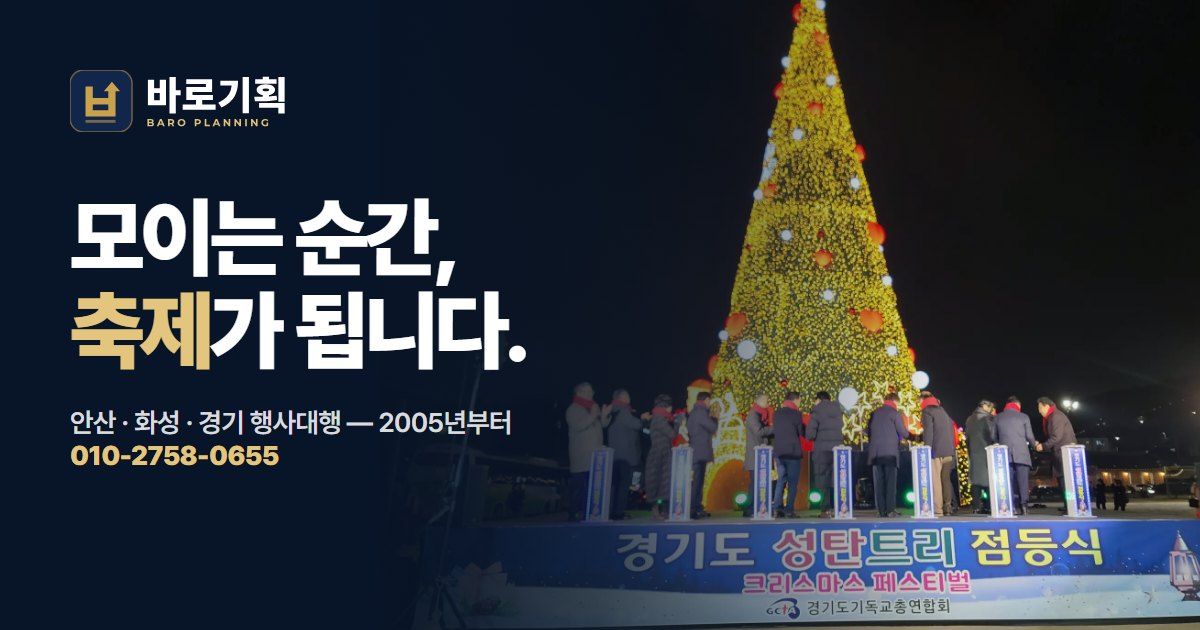
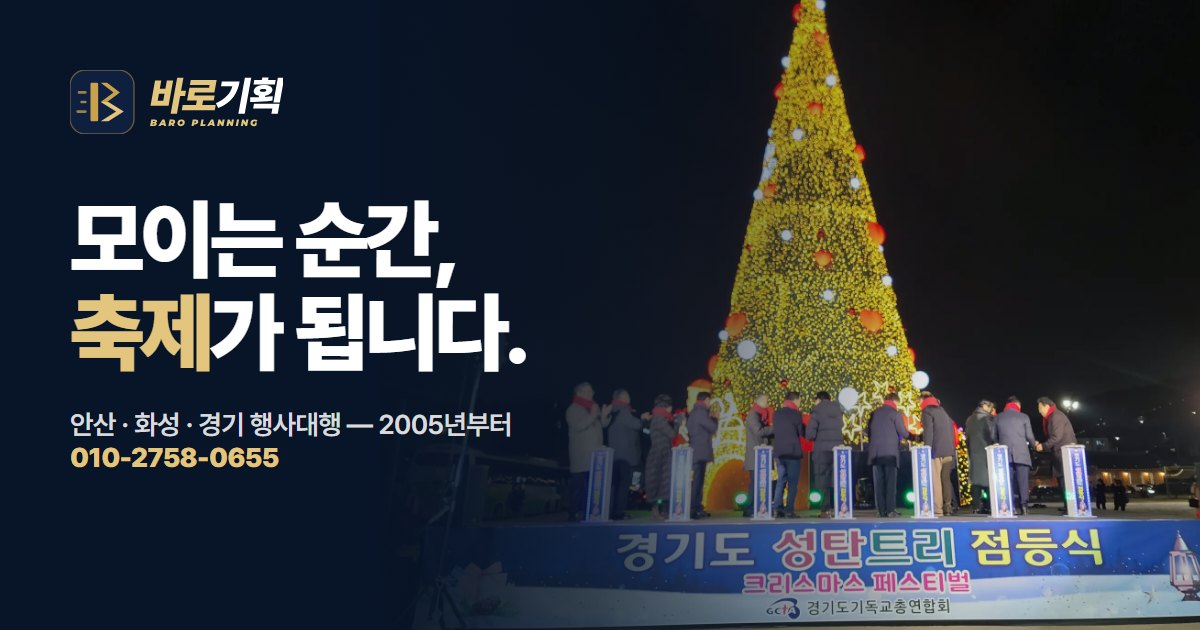
바로기획 로고 교체 — C안 「빨리감기 B」(아웃라인 SVG), OG 그림 새 로고로

diff --git a/about.html b/about.html
@@ -33,14 +33,14 @@
 <div class="draft" aria-hidden="true">큰길브리지 제작 시안 · 대표님 확인 후 확정</div>
 <header class="hd" id="hd">
   <div class="wrap">
-    <a class="logo" href="index.html" aria-label="바로기획 홈"><img class="c" src="assets/img/logo-h.svg" alt="바로기획 BARO PLANNING" width="229" height="64"><img class="w" src="assets/img/logo-h-white.svg" alt="바로기획 BARO PLANNING" width="229" height="64"></a>
+    <a class="logo" href="index.html" aria-label="바로기획 홈"><img class="c" src="assets/img/logo-h.svg" alt="바로기획 BARO PLANNING" width="213" height="64"><img class="w" src="assets/img/logo-h-white.svg" alt="바로기획 BARO PLANNING" width="213" height="64"></a>
     <nav aria-label="주 메뉴"><a href="about.html">회사소개</a><a href="service.html">하는 일</a><a href="portfolio.html">현장사진 · 영상</a><a href="notice.html">공지 · 블로그</a><a href="contact.html">견적문의</a></nav>
     <a class="tel" href="tel:010-2758-0655"><i><svg viewBox="0 0 24 24" fill="none" stroke="currentColor" stroke-width="1.9"><path d="M5 4h4l2 5-2.5 1.5a11 11 0 0 0 5 5L15 13l5 2v4a2 2 0 0 1-2 2A16 16 0 0 1 3 6a2 2 0 0 1 2-2z"/></svg></i><span>010-2758-0655</span></a>
     <button class="burger" id="burger" aria-label="메뉴 열기" aria-expanded="false" aria-controls="sheet"><i></i></button>
   </div>
 </header>
 <div class="sheet" id="sheet" aria-label="모바일 메뉴">
-  <div class="top"><img src="assets/img/logo-h-white.svg" alt="바로기획" width="143" height="40"><button class="x" aria-label="메뉴 닫기"><svg viewBox="0 0 24 24" fill="none" stroke="currentColor" stroke-width="2"><path d="M6 6l12 12M18 6L6 18"/></svg></button></div>
+  <div class="top"><img src="assets/img/logo-h-white.svg" alt="바로기획" width="133" height="40"><button class="x" aria-label="메뉴 닫기"><svg viewBox="0 0 24 24" fill="none" stroke="currentColor" stroke-width="2"><path d="M6 6l12 12M18 6L6 18"/></svg></button></div>
   <nav><a href="index.html">홈<small>HOME</small></a><a href="about.html">회사소개<small>ABOUT</small></a><a href="service.html">하는 일<small>SERVICE</small></a><a href="portfolio.html">현장사진 · 영상<small>WORKS</small></a><a href="notice.html">공지 · 블로그<small>NEWS</small></a><a href="contact.html">견적문의<small>CONTACT</small></a></nav>
   <div class="foot">대표 김선호 · 010-2758-0655<br>상담 오전 8시 ~ 저녁 8시<br>경기도 안산시 상록구 장화1길 56, 103호<a class="btn btn-gold" href="tel:010-2758-0655"><svg viewBox="0 0 24 24" fill="none" stroke="currentColor" stroke-width="1.9"><path d="M5 4h4l2 5-2.5 1.5a11 11 0 0 0 5 5L15 13l5 2v4a2 2 0 0 1-2 2A16 16 0 0 1 3 6a2 2 0 0 1 2-2z"/></svg>전화로 바로 상담</a></div>
 </div>
@@ -190,7 +190,7 @@
   <div class="wrap">
     <div class="top">
       <div>
-        <a class="logo" href="index.html" aria-label="바로기획 홈"><img src="assets/img/logo-h-white.svg" alt="바로기획 BARO PLANNING" width="165" height="46"></a>
+        <a class="logo" href="index.html" aria-label="바로기획 홈"><img src="assets/img/logo-h-white.svg" alt="바로기획 BARO PLANNING" width="153" height="46"></a>
         <p>2005년부터 안산 · 화성 등 경기 지역에서 체육대회 · 지역축제 · 커팅식 · 송년회를 준비해 온 행사대행 전문업체입니다. 작은 행사도 정성껏 하겠습니다.</p>
         <div class="sns">
           <a href="https://blog.naver.com/mot2256789" target="_blank" rel="noopener" aria-label="네이버 블로그"><svg viewBox="0 0 24 24" fill="none" stroke="currentColor" stroke-width="1.8"><path d="M4 4h16v12H9l-5 4z"/><path d="M8 9h8M8 12h5"/></svg></a>

diff --git a/contact.html b/contact.html
@@ -34,14 +34,14 @@
 <div class="draft" aria-hidden="true">큰길브리지 제작 시안 · 대표님 확인 후 확정</div>
 <header class="hd" id="hd">
   <div class="wrap">
-    <a class="logo" href="index.html" aria-label="바로기획 홈"><img class="c" src="assets/img/logo-h.svg" alt="바로기획 BARO PLANNING" width="229" height="64"><img class="w" src="assets/img/logo-h-white.svg" alt="바로기획 BARO PLANNING" width="229" height="64"></a>
+    <a class="logo" href="index.html" aria-label="바로기획 홈"><img class="c" src="assets/img/logo-h.svg" alt="바로기획 BARO PLANNING" width="213" height="64"><img class="w" src="assets/img/logo-h-white.svg" alt="바로기획 BARO PLANNING" width="213" height="64"></a>
     <nav aria-label="주 메뉴"><a href="about.html">회사소개</a><a href="service.html">하는 일</a><a href="portfolio.html">현장사진 · 영상</a><a href="notice.html">공지 · 블로그</a><a href="contact.html">견적문의</a></nav>
     <a class="tel" href="tel:010-2758-0655"><i><svg viewBox="0 0 24 24" fill="none" stroke="currentColor" stroke-width="1.9"><path d="M5 4h4l2 5-2.5 1.5a11 11 0 0 0 5 5L15 13l5 2v4a2 2 0 0 1-2 2A16 16 0 0 1 3 6a2 2 0 0 1 2-2z"/></svg></i><span>010-2758-0655</span></a>
     <button class="burger" id="burger" aria-label="메뉴 열기" aria-expanded="false" aria-controls="sheet"><i></i></button>
   </div>
 </header>
 <div class="sheet" id="sheet" aria-label="모바일 메뉴">
-  <div class="top"><img src="assets/img/logo-h-white.svg" alt="바로기획" width="143" height="40"><button class="x" aria-label="메뉴 닫기"><svg viewBox="0 0 24 24" fill="none" stroke="currentColor" stroke-width="2"><path d="M6 6l12 12M18 6L6 18"/></svg></button></div>
+  <div class="top"><img src="assets/img/logo-h-white.svg" alt="바로기획" width="133" height="40"><button class="x" aria-label="메뉴 닫기"><svg viewBox="0 0 24 24" fill="none" stroke="currentColor" stroke-width="2"><path d="M6 6l12 12M18 6L6 18"/></svg></button></div>
   <nav><a href="index.html">홈<small>HOME</small></a><a href="about.html">회사소개<small>ABOUT</small></a><a href="service.html">하는 일<small>SERVICE</small></a><a href="portfolio.html">현장사진 · 영상<small>WORKS</small></a><a href="notice.html">공지 · 블로그<small>NEWS</small></a><a href="contact.html">견적문의<small>CONTACT</small></a></nav>
   <div class="foot">대표 김선호 · 010-2758-0655<br>상담 오전 8시 ~ 저녁 8시<br>경기도 안산시 상록구 장화1길 56, 103호<a class="btn btn-gold" href="tel:010-2758-0655"><svg viewBox="0 0 24 24" fill="none" stroke="currentColor" stroke-width="1.9"><path d="M5 4h4l2 5-2.5 1.5a11 11 0 0 0 5 5L15 13l5 2v4a2 2 0 0 1-2 2A16 16 0 0 1 3 6a2 2 0 0 1 2-2z"/></svg>전화로 바로 상담</a></div>
 </div>
@@ -102,7 +102,7 @@
   <div class="wrap">
     <div class="top">
       <div>
-        <a class="logo" href="index.html" aria-label="바로기획 홈"><img src="assets/img/logo-h-white.svg" alt="바로기획 BARO PLANNING" width="165" height="46"></a>
+        <a class="logo" href="index.html" aria-label="바로기획 홈"><img src="assets/img/logo-h-white.svg" alt="바로기획 BARO PLANNING" width="153" height="46"></a>
         <p>2005년부터 안산 · 화성 등 경기 지역에서 체육대회 · 지역축제 · 커팅식 · 송년회를 준비해 온 행사대행 전문업체입니다. 작은 행사도 정성껏 하겠습니다.</p>
         <div class="sns">
           <a href="https://blog.naver.com/mot2256789" target="_blank" rel="noopener" aria-label="네이버 블로그"><svg viewBox="0 0 24 24" fill="none" stroke="currentColor" stroke-width="1.8"><path d="M4 4h16v12H9l-5 4z"/><path d="M8 9h8M8 12h5"/></svg></a>

diff --git a/index.html b/index.html
@@ -34,14 +34,14 @@
 <div class="draft" aria-hidden="true">큰길브리지 제작 시안 · 대표님 확인 후 확정</div>
 <header class="hd" id="hd">
   <div class="wrap">
-    <a class="logo" href="index.html" aria-label="바로기획 홈"><img class="c" src="assets/img/logo-h.svg" alt="바로기획 BARO PLANNING" width="229" height="64"><img class="w" src="assets/img/logo-h-white.svg" alt="바로기획 BARO PLANNING" width="229" height="64"></a>
+    <a class="logo" href="index.html" aria-label="바로기획 홈"><img class="c" src="assets/img/logo-h.svg" alt="바로기획 BARO PLANNING" width="213" height="64"><img class="w" src="assets/img/logo-h-white.svg" alt="바로기획 BARO PLANNING" width="213" height="64"></a>
     <nav aria-label="주 메뉴"><a href="about.html">회사소개</a><a href="service.html">하는 일</a><a href="portfolio.html">현장사진 · 영상</a><a href="notice.html">공지 · 블로그</a><a href="contact.html">견적문의</a></nav>
     <a class="tel" href="tel:010-2758-0655"><i><svg viewBox="0 0 24 24" fill="none" stroke="currentColor" stroke-width="1.9"><path d="M5 4h4l2 5-2.5 1.5a11 11 0 0 0 5 5L15 13l5 2v4a2 2 0 0 1-2 2A16 16 0 0 1 3 6a2 2 0 0 1 2-2z"/></svg></i><span>010-2758-0655</span></a>
     <button class="burger" id="burger" aria-label="메뉴 열기" aria-expanded="false" aria-controls="sheet"><i></i></button>
   </div>
 </header>
 <div class="sheet" id="sheet" aria-label="모바일 메뉴">
-  <div class="top"><img src="assets/img/logo-h-white.svg" alt="바로기획" width="143" height="40"><button class="x" aria-label="메뉴 닫기"><svg viewBox="0 0 24 24" fill="none" stroke="currentColor" stroke-width="2"><path d="M6 6l12 12M18 6L6 18"/></svg></button></div>
+  <div class="top"><img src="assets/img/logo-h-white.svg" alt="바로기획" width="133" height="40"><button class="x" aria-label="메뉴 닫기"><svg viewBox="0 0 24 24" fill="none" stroke="currentColor" stroke-width="2"><path d="M6 6l12 12M18 6L6 18"/></svg></button></div>
   <nav><a href="index.html">홈<small>HOME</small></a><a href="about.html">회사소개<small>ABOUT</small></a><a href="service.html">하는 일<small>SERVICE</small></a><a href="portfolio.html">현장사진 · 영상<small>WORKS</small></a><a href="notice.html">공지 · 블로그<small>NEWS</small></a><a href="contact.html">견적문의<small>CONTACT</small></a></nav>
   <div class="foot">대표 김선호 · 010-2758-0655<br>상담 오전 8시 ~ 저녁 8시<br>경기도 안산시 상록구 장화1길 56, 103호<a class="btn btn-gold" href="tel:010-2758-0655"><svg viewBox="0 0 24 24" fill="none" stroke="currentColor" stroke-width="1.9"><path d="M5 4h4l2 5-2.5 1.5a11 11 0 0 0 5 5L15 13l5 2v4a2 2 0 0 1-2 2A16 16 0 0 1 3 6a2 2 0 0 1 2-2z"/></svg>전화로 바로 상담</a></div>
 </div>
@@ -198,7 +198,7 @@
   <div class="wrap">
     <div class="top">
       <div>
-        <a class="logo" href="index.html" aria-label="바로기획 홈"><img src="assets/img/logo-h-white.svg" alt="바로기획 BARO PLANNING" width="165" height="46"></a>
+        <a class="logo" href="index.html" aria-label="바로기획 홈"><img src="assets/img/logo-h-white.svg" alt="바로기획 BARO PLANNING" width="153" height="46"></a>
         <p>2005년부터 안산 · 화성 등 경기 지역에서 체육대회 · 지역축제 · 커팅식 · 송년회를 준비해 온 행사대행 전문업체입니다. 작은 행사도 정성껏 하겠습니다.</p>
         <div class="sns">
           <a href="https://blog.naver.com/mot2256789" target="_blank" rel="noopener" aria-label="네이버 블로그"><svg viewBox="0 0 24 24" fill="none" stroke="currentColor" stroke-width="1.8"><path d="M4 4h16v12H9l-5 4z"/><path d="M8 9h8M8 12h5"/></svg></a>

diff --git a/service.html b/service.html
@@ -33,14 +33,14 @@
 <div class="draft" aria-hidden="true">큰길브리지 제작 시안 · 대표님 확인 후 확정</div>
 <header class="hd" id="hd">
   <div class="wrap">
-    <a class="logo" href="index.html" aria-label="바로기획 홈"><img class="c" src="assets/img/logo-h.svg" alt="바로기획 BARO PLANNING" width="229" height="64"><img class="w" src="assets/img/logo-h-white.svg" alt="바로기획 BARO PLANNING" width="229" height="64"></a>
+    <a class="logo" href="index.html" aria-label="바로기획 홈"><img class="c" src="assets/img/logo-h.svg" alt="바로기획 BARO PLANNING" width="213" height="64"><img class="w" src="assets/img/logo-h-white.svg" alt="바로기획 BARO PLANNING" width="213" height="64"></a>
     <nav aria-label="주 메뉴"><a href="about.html">회사소개</a><a href="service.html">하는 일</a><a href="portfolio.html">현장사진 · 영상</a><a href="notice.html">공지 · 블로그</a><a href="contact.html">견적문의</a></nav>
     <a class="tel" href="tel:010-2758-0655"><i><svg viewBox="0 0 24 24" fill="none" stroke="currentColor" stroke-width="1.9"><path d="M5 4h4l2 5-2.5 1.5a11 11 0 0 0 5 5L15 13l5 2v4a2 2 0 0 1-2 2A16 16 0 0 1 3 6a2 2 0 0 1 2-2z"/></svg></i><span>010-2758-0655</span></a>
     <button class="burger" id="burger" aria-label="메뉴 열기" aria-expanded="false" aria-controls="sheet"><i></i></button>
   </div>
 </header>
 <div class="sheet" id="sheet" aria-label="모바일 메뉴">
-  <div class="top"><img src="assets/img/logo-h-white.svg" alt="바로기획" width="143" height="40"><button class="x" aria-label="메뉴 닫기"><svg viewBox="0 0 24 24" fill="none" stroke="currentColor" stroke-width="2"><path d="M6 6l12 12M18 6L6 18"/></svg></button></div>
+  <div class="top"><img src="assets/img/logo-h-white.svg" alt="바로기획" width="133" height="40"><button class="x" aria-label="메뉴 닫기"><svg viewBox="0 0 24 24" fill="none" stroke="currentColor" stroke-width="2"><path d="M6 6l12 12M18 6L6 18"/></svg></button></div>
   <nav><a href="index.html">홈<small>HOME</small></a><a href="about.html">회사소개<small>ABOUT</small></a><a href="service.html">하는 일<small>SERVICE</small></a><a href="portfolio.html">현장사진 · 영상<small>WORKS</small></a><a href="notice.html">공지 · 블로그<small>NEWS</small></a><a href="contact.html">견적문의<small>CONTACT</small></a></nav>
   <div class="foot">대표 김선호 · 010-2758-0655<br>상담 오전 8시 ~ 저녁 8시<br>경기도 안산시 상록구 장화1길 56, 103호<a class="btn btn-gold" href="tel:010-2758-0655"><svg viewBox="0 0 24 24" fill="none" stroke="currentColor" stroke-width="1.9"><path d="M5 4h4l2 5-2.5 1.5a11 11 0 0 0 5 5L15 13l5 2v4a2 2 0 0 1-2 2A16 16 0 0 1 3 6a2 2 0 0 1 2-2z"/></svg>전화로 바로 상담</a></div>
 </div>
@@ -108,7 +108,7 @@
   <div class="wrap">
     <div class="top">
       <div>
-        <a class="logo" href="index.html" aria-label="바로기획 홈"><img src="assets/img/logo-h-white.svg" alt="바로기획 BARO PLANNING" width="165" height="46"></a>
+        <a class="logo" href="index.html" aria-label="바로기획 홈"><img src="assets/img/logo-h-white.svg" alt="바로기획 BARO PLANNING" width="153" height="46"></a>
         <p>2005년부터 안산 · 화성 등 경기 지역에서 체육대회 · 지역축제 · 커팅식 · 송년회를 준비해 온 행사대행 전문업체입니다. 작은 행사도 정성껏 하겠습니다.</p>
         <div class="sns">
           <a href="https://blog.naver.com/mot2256789" target="_blank" rel="noopener" aria-label="네이버 블로그"><svg viewBox="0 0 24 24" fill="none" stroke="currentColor" stroke-width="1.8"><path d="M4 4h16v12H9l-5 4z"/><path d="M8 9h8M8 12h5"/></svg></a>

diff --git a/notice.html b/notice.html
@@ -33,14 +33,14 @@
 <div class="draft" aria-hidden="true">큰길브리지 제작 시안 · 대표님 확인 후 확정</div>
 <header class="hd" id="hd">
   <div class="wrap">
-    <a class="logo" href="index.html" aria-label="바로기획 홈"><img class="c" src="assets/img/logo-h.svg" alt="바로기획 BARO PLANNING" width="229" height="64"><img class="w" src="assets/img/logo-h-white.svg" alt="바로기획 BARO PLANNING" width="229" height="64"></a>
+    <a class="logo" href="index.html" aria-label="바로기획 홈"><img class="c" src="assets/img/logo-h.svg" alt="바로기획 BARO PLANNING" width="213" height="64"><img class="w" src="assets/img/logo-h-white.svg" alt="바로기획 BARO PLANNING" width="213" height="64"></a>
     <nav aria-label="주 메뉴"><a href="about.html">회사소개</a><a href="service.html">하는 일</a><a href="portfolio.html">현장사진 · 영상</a><a href="notice.html">공지 · 블로그</a><a href="contact.html">견적문의</a></nav>
     <a class="tel" href="tel:010-2758-0655"><i><svg viewBox="0 0 24 24" fill="none" stroke="currentColor" stroke-width="1.9"><path d="M5 4h4l2 5-2.5 1.5a11 11 0 0 0 5 5L15 13l5 2v4a2 2 0 0 1-2 2A16 16 0 0 1 3 6a2 2 0 0 1 2-2z"/></svg></i><span>010-2758-0655</span></a>
     <button class="burger" id="burger" aria-label="메뉴 열기" aria-expanded="false" aria-controls="sheet"><i></i></button>
   </div>
 </header>
 <div class="sheet" id="sheet" aria-label="모바일 메뉴">
-  <div class="top"><img src="assets/img/logo-h-white.svg" alt="바로기획" width="143" height="40"><button class="x" aria-label="메뉴 닫기"><svg viewBox="0 0 24 24" fill="none" stroke="currentColor" stroke-width="2"><path d="M6 6l12 12M18 6L6 18"/></svg></button></div>
+  <div class="top"><img src="assets/img/logo-h-white.svg" alt="바로기획" width="133" height="40"><button class="x" aria-label="메뉴 닫기"><svg viewBox="0 0 24 24" fill="none" stroke="currentColor" stroke-width="2"><path d="M6 6l12 12M18 6L6 18"/></svg></button></div>
   <nav><a href="index.html">홈<small>HOME</small></a><a href="about.html">회사소개<small>ABOUT</small></a><a href="service.html">하는 일<small>SERVICE</small></a><a href="portfolio.html">현장사진 · 영상<small>WORKS</small></a><a href="notice.html">공지 · 블로그<small>NEWS</small></a><a href="contact.html">견적문의<small>CONTACT</small></a></nav>
   <div class="foot">대표 김선호 · 010-2758-0655<br>상담 오전 8시 ~ 저녁 8시<br>경기도 안산시 상록구 장화1길 56, 103호<a class="btn btn-gold" href="tel:010-2758-0655"><svg viewBox="0 0 24 24" fill="none" stroke="currentColor" stroke-width="1.9"><path d="M5 4h4l2 5-2.5 1.5a11 11 0 0 0 5 5L15 13l5 2v4a2 2 0 0 1-2 2A16 16 0 0 1 3 6a2 2 0 0 1 2-2z"/></svg>전화로 바로 상담</a></div>
 </div>
@@ -86,7 +86,7 @@
   <div class="wrap">
     <div class="top">
       <div>
-        <a class="logo" href="index.html" aria-label="바로기획 홈"><img src="assets/img/logo-h-white.svg" alt="바로기획 BARO PLANNING" width="165" height="46"></a>
+        <a class="logo" href="index.html" aria-label="바로기획 홈"><img src="assets/img/logo-h-white.svg" alt="바로기획 BARO PLANNING" width="153" height="46"></a>
         <p>2005년부터 안산 · 화성 등 경기 지역에서 체육대회 · 지역축제 · 커팅식 · 송년회를 준비해 온 행사대행 전문업체입니다. 작은 행사도 정성껏 하겠습니다.</p>
         <div class="sns">
           <a href="https://blog.naver.com/mot2256789" target="_blank" rel="noopener" aria-label="네이버 블로그"><svg viewBox="0 0 24 24" fill="none" stroke="currentColor" stroke-width="1.8"><path d="M4 4h16v12H9l-5 4z"/><path d="M8 9h8M8 12h5"/></svg></a>

diff --git a/portfolio.html b/portfolio.html
@@ -33,14 +33,14 @@
 <div class="draft" aria-hidden="true">큰길브리지 제작 시안 · 대표님 확인 후 확정</div>
 <header class="hd" id="hd">
   <div class="wrap">
-    <a class="logo" href="index.html" aria-label="바로기획 홈"><img class="c" src="assets/img/logo-h.svg" alt="바로기획 BARO PLANNING" width="229" height="64"><img class="w" src="assets/img/logo-h-white.svg" alt="바로기획 BARO PLANNING" width="229" height="64"></a>
+    <a class="logo" href="index.html" aria-label="바로기획 홈"><img class="c" src="assets/img/logo-h.svg" alt="바로기획 BARO PLANNING" width="213" height="64"><img class="w" src="assets/img/logo-h-white.svg" alt="바로기획 BARO PLANNING" width="213" height="64"></a>
     <nav aria-label="주 메뉴"><a href="about.html">회사소개</a><a href="service.html">하는 일</a><a href="portfolio.html">현장사진 · 영상</a><a href="notice.html">공지 · 블로그</a><a href="contact.html">견적문의</a></nav>
     <a class="tel" href="tel:010-2758-0655"><i><svg viewBox="0 0 24 24" fill="none" stroke="currentColor" stroke-width="1.9"><path d="M5 4h4l2 5-2.5 1.5a11 11 0 0 0 5 5L15 13l5 2v4a2 2 0 0 1-2 2A16 16 0 0 1 3 6a2 2 0 0 1 2-2z"/></svg></i><span>010-2758-0655</span></a>
     <button class="burger" id="burger" aria-label="메뉴 열기" aria-expanded="false" aria-controls="sheet"><i></i></button>
   </div>
 </header>
 <div class="sheet" id="sheet" aria-label="모바일 메뉴">
-  <div class="top"><img src="assets/img/logo-h-white.svg" alt="바로기획" width="143" height="40"><button class="x" aria-label="메뉴 닫기"><svg viewBox="0 0 24 24" fill="none" stroke="currentColor" stroke-width="2"><path d="M6 6l12 12M18 6L6 18"/></svg></button></div>
+  <div class="top"><img src="assets/img/logo-h-white.svg" alt="바로기획" width="133" height="40"><button class="x" aria-label="메뉴 닫기"><svg viewBox="0 0 24 24" fill="none" stroke="currentColor" stroke-width="2"><path d="M6 6l12 12M18 6L6 18"/></svg></button></div>
   <nav><a href="index.html">홈<small>HOME</small></a><a href="about.html">회사소개<small>ABOUT</small></a><a href="service.html">하는 일<small>SERVICE</small></a><a href="portfolio.html">현장사진 · 영상<small>WORKS</small></a><a href="notice.html">공지 · 블로그<small>NEWS</small></a><a href="contact.html">견적문의<small>CONTACT</small></a></nav>
   <div class="foot">대표 김선호 · 010-2758-0655<br>상담 오전 8시 ~ 저녁 8시<br>경기도 안산시 상록구 장화1길 56, 103호<a class="btn btn-gold" href="tel:010-2758-0655"><svg viewBox="0 0 24 24" fill="none" stroke="currentColor" stroke-width="1.9"><path d="M5 4h4l2 5-2.5 1.5a11 11 0 0 0 5 5L15 13l5 2v4a2 2 0 0 1-2 2A16 16 0 0 1 3 6a2 2 0 0 1 2-2z"/></svg>전화로 바로 상담</a></div>
 </div>
@@ -88,7 +88,7 @@
   <div class="wrap">
     <div class="top">
       <div>
-        <a class="logo" href="index.html" aria-label="바로기획 홈"><img src="assets/img/logo-h-white.svg" alt="바로기획 BARO PLANNING" width="165" height="46"></a>
+        <a class="logo" href="index.html" aria-label="바로기획 홈"><img src="assets/img/logo-h-white.svg" alt="바로기획 BARO PLANNING" width="153" height="46"></a>
         <p>2005년부터 안산 · 화성 등 경기 지역에서 체육대회 · 지역축제 · 커팅식 · 송년회를 준비해 온 행사대행 전문업체입니다. 작은 행사도 정성껏 하겠습니다.</p>
         <div class="sns">
           <a href="https://blog.naver.com/mot2256789" target="_blank" rel="noopener" aria-label="네이버 블로그"><svg viewBox="0 0 24 24" fill="none" stroke="currentColor" stroke-width="1.8"><path d="M4 4h16v12H9l-5 4z"/><path d="M8 9h8M8 12h5"/></svg></a>

diff --git a/tools/make_logo.py b/tools/make_logo.py
@@ -1,0 +1,66 @@
+# -*- coding: utf-8 -*-
+"""
+바로기획 로고(C안 · 빨리감기 B) SVG 만들기 — 글자는 도형(아웃라인)으로 바꿔 넣는다.
+  python tools/make_logo.py "<Pretendard-Black.otf 경로>" "<Montserrat-BlackItalic.ttf 경로>"
+만드는 파일: assets/img/logo-mark.svg · logo-mark-white.svg · favicon.svg · logo-h.svg · logo-h-white.svg · logo-v.svg
+"""
+import sys, os
+from fontTools.ttLib import TTFont
+from fontTools.pens.svgPathPen import SVGPathPen
+from fontTools.pens.transformPen import TransformPen
+
+SITE = os.path.dirname(os.path.dirname(os.path.abspath(__file__)))
+OUT = os.path.join(SITE, 'assets', 'img')
+NAVY, GOLD, GOLD2, INK, WHITE = '#0E1F3F', '#C9A24B', '#E3C57E', '#131A2A', '#FFFFFF'
+GOLD_T = '#B08A36'   # 흰 바탕 위 금색 글자(조금 진하게)
+
+def text_path(font, s, size, x, y, skew=0.0, track=0.0):
+    """글자 s 를 (x, y=기준선) 에 size px 로. skew: 오른쪽으로 기울기(tan)."""
+    gs = font.getGlyphSet(); cmap = font.getBestCmap(); upm = font['head'].unitsPerEm
+    k = size / upm; d = []; cx = x
+    for ch in s:
+        g = cmap[ord(ch)]
+        pen = SVGPathPen(gs)
+        # 글꼴 좌표(y 위로) → SVG(y 아래로) + 기울임
+        tp = TransformPen(pen, (k, 0, k * skew, -k, cx, y))
+        gs[g].draw(tp)
+        d.append(pen.getCommands())
+        cx += gs[g].width * k + track
+    return ' '.join(d), cx
+
+def mark(bg, stem, chev1, chev2, lines):
+    return ('<rect width="100" height="100" rx="24" fill="%s"/><g transform="translate(4 0)">'
+            '<rect x="28" y="20" width="12" height="60" rx="2" fill="%s"/>'
+            '<path d="M44 20h10l20 15-20 15H44l20-15z" fill="%s"/>'
+            '<path d="M44 50h12l24 15-24 15H44l24-15z" fill="%s"/>'
+            '<g fill="%s" opacity=".75"><rect x="8" y="33" width="14" height="4" rx="2"/><rect x="12" y="48" width="10" height="4" rx="2"/><rect x="6" y="63" width="16" height="4" rx="2"/></g></g>') % (bg, stem, chev1, chev2, lines)
+
+def svg(vb, body): return '<svg xmlns="http://www.w3.org/2000/svg" viewBox="%s">%s</svg>\n' % (vb, body)
+def w(name, s): open(os.path.join(OUT, name), 'w', encoding='utf-8', newline='\n').write(s); print(name)
+
+def main(pret, mont):
+    kr, en = TTFont(pret), TTFont(mont)
+    M = mark(NAVY, GOLD, GOLD, GOLD2, GOLD)
+    MW = mark(WHITE, NAVY, NAVY, '#1D3A6B', GOLD)
+    w('logo-mark.svg', svg('0 0 100 100', M)); w('favicon.svg', svg('0 0 100 100', M)); w('logo-mark-white.svg', svg('0 0 100 100', MW))
+    SK = 0.18
+    def lockup(dark):
+        # 마크 64 + 글자
+        a, x1 = text_path(kr, '바로', 40, 78, 40, SK, -1.6)
+        b, x2 = text_path(kr, '기획', 40, x1, 40, SK, -1.6)
+        c, x3 = text_path(en, 'BARO PLANNING', 9.2, 80, 56, 0, 1.9)
+        body = '<g transform="scale(.64)">%s</g>' % (M if not dark else M.replace('rx="24" fill="%s"' % NAVY, 'rx="24" fill="%s" stroke="%s" stroke-opacity=".5" stroke-width="2"' % (NAVY, GOLD)))
+        body += '<path fill="%s" d="%s"/><path fill="%s" d="%s"/><path fill="%s" d="%s"/>' % (GOLD2 if dark else GOLD_T, a, WHITE if dark else INK, b, GOLD2 if dark else '#6B7385', c)
+        return svg('0 0 %d 64' % (max(x2, x3) + 4), body), int(max(x2, x3) + 4)
+    s, W1 = lockup(False); w('logo-h.svg', s)
+    s, W2 = lockup(True); w('logo-h-white.svg', s)
+    # 세로형
+    a, x1 = text_path(kr, '바로', 44, 0, 150, SK, -1.8); b, x2 = text_path(kr, '기획', 44, x1, 150, SK, -1.8)
+    c, x3 = text_path(en, 'BARO PLANNING', 10.5, 0, 172, 0, 2.2)
+    VW = 200; ox = (VW - x2) / 2; ox2 = (VW - x3) / 2
+    body = '<g transform="translate(50 6)">%s</g><g transform="translate(%.1f 0)"><path fill="%s" d="%s"/><path fill="%s" d="%s"/></g><path transform="translate(%.1f 0)" fill="#6B7385" d="%s"/>' % (M, ox, GOLD_T, a, INK, b, ox2, c)
+    w('logo-v.svg', svg('0 0 %d 182' % VW, body))
+    print('WIDTH', W1, W2)
+
+if __name__ == '__main__':
+    main(sys.argv[1], sys.argv[2])

diff --git a/assets/img/SOURCES.md b/assets/img/SOURCES.md
@@ -55,5 +55,5 @@
 
 ## 로고 · og.jpg
 
-- `logo-*.svg` · `favicon.svg` — 큰길브리지 제작 **시안**(README 「로고 시안」 참고).
-- `og.jpg` — 2026-09-28 n05(성탄트리 점등식) 사진 + 로고 + 문구로 다시 합성(1200×630).
+- `logo-*.svg` · `favicon.svg` — 2026-09-28 C안 「빨리감기 B」로 교체(시안 비교: brand/logo-options.html). 글자는 Pretendard Black · Montserrat Black Italic 을 도형으로 바꿔 넣음 — `python tools/make_logo.py <Pretendard-Black.otf> <Montserrat-BlackItalic.ttf>` 로 다시 만든다.
+- `og.jpg` — 2026-09-28 n05(성탄트리 점등식) 사진 + 새 로고 + 문구로 다시 합성(1200×630).
